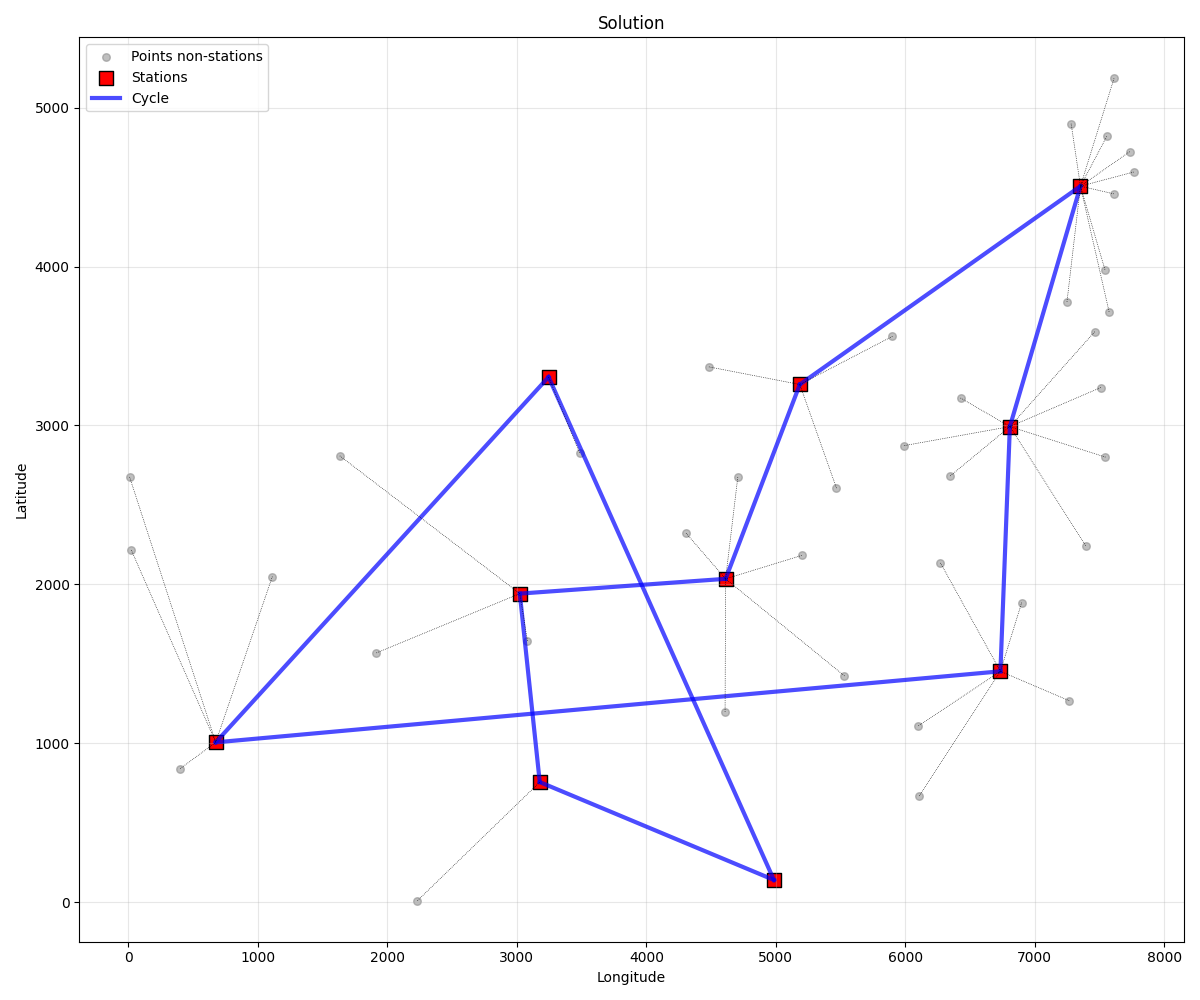
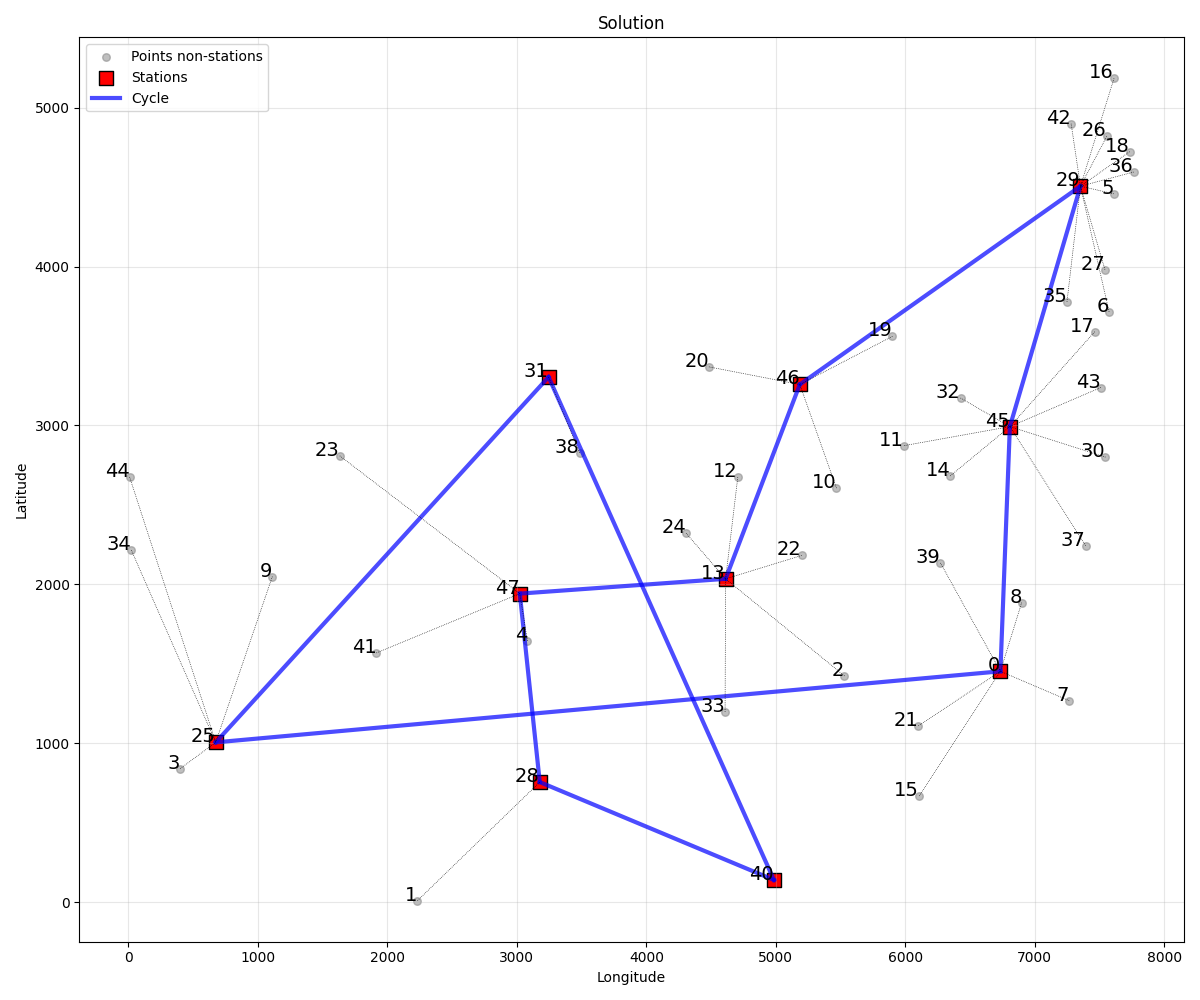
2-opt impl

diff --git a/src/main.py b/src/main.py
@@ -1,6 +1,6 @@
 
 from data_loader import load_tsp_file
-from heuristics import greedy_p_median, nearest_neighbor_tsp
+from heuristics import greedy_p_median, nearest_neighbor_tsp, two_opt
 from visualization import plot_points, plot_solution
 
 def main():
@@ -8,6 +8,7 @@ def main():
     coordinates, distances, n = load_tsp_file("./data/att48.tsp")
     res_greedy_p_median = greedy_p_median(coordinates,10,n,distances)
     res_tsp = nearest_neighbor_tsp(res_greedy_p_median["stations"],distances)
+
 
     plot_points(coordinates)
 
@@ -17,6 +18,14 @@ def main():
             res_tsp["path"],
             res_greedy_p_median['assignments'],
         )
-
+    final_tour = two_opt(res_tsp["path"],distances)
+    plot_solution(
+            coordinates, 
+            res_greedy_p_median['stations'], 
+            final_tour["path"],
+            res_greedy_p_median['assignments'],
+            "After 2 OPT"
+        )
+    print(f"walking {res_greedy_p_median["cost"]} \n tsp {res_tsp["cost"]} \n 2-opt {final_tour["cost"]}")
 if __name__ == "__main__":
     main()

diff --git a/src/heuristics.py b/src/heuristics.py
@@ -102,3 +102,31 @@ def nearest_neighbor_tsp(stations, distances):
         'path': path,
         'cost': cost,
     }
+
+
+def two_opt(path, distances):
+    n = len(path)
+    improved = True
+    
+    while improved:
+        improved = False
+        for i in range(n - 1):
+            for j in range(i + 2, n - 1):
+                current = distances[path[i]][path[i+1]] + distances[path[j]][path[j+1]]                
+                new = distances[path[i]][path[j]] + distances[path[i+1]][path[j+1]]
+                
+                if new < current:
+                    path[i+1:j+1] = path[i+1:j+1][::-1]
+                    improved = True
+                    break
+    cost = 0
+    for index in range(len(path)-1):
+        current_station = path[index]
+        next_station = path[index+1]
+        cost+=distances[current_station][next_station]
+        
+    return {
+        "path":path,
+        "cost":cost
+    }
+

diff --git a/src/visualization.py b/src/visualization.py
@@ -24,6 +24,11 @@ def plot_solution(coordinates, stations, path, assignments, title="Solution"):
 
     plt.figure(figsize=(12, 10))
     
+    for i, point in enumerate(coordinates):
+        x = point[0]
+        y = point[1]
+        plt.text(x, y, str(i), fontsize=14, ha='right')
+
     # All points
     all_indices = list(range(len(coordinates)))
     non_stations = [i for i in all_indices if i not in stations]
